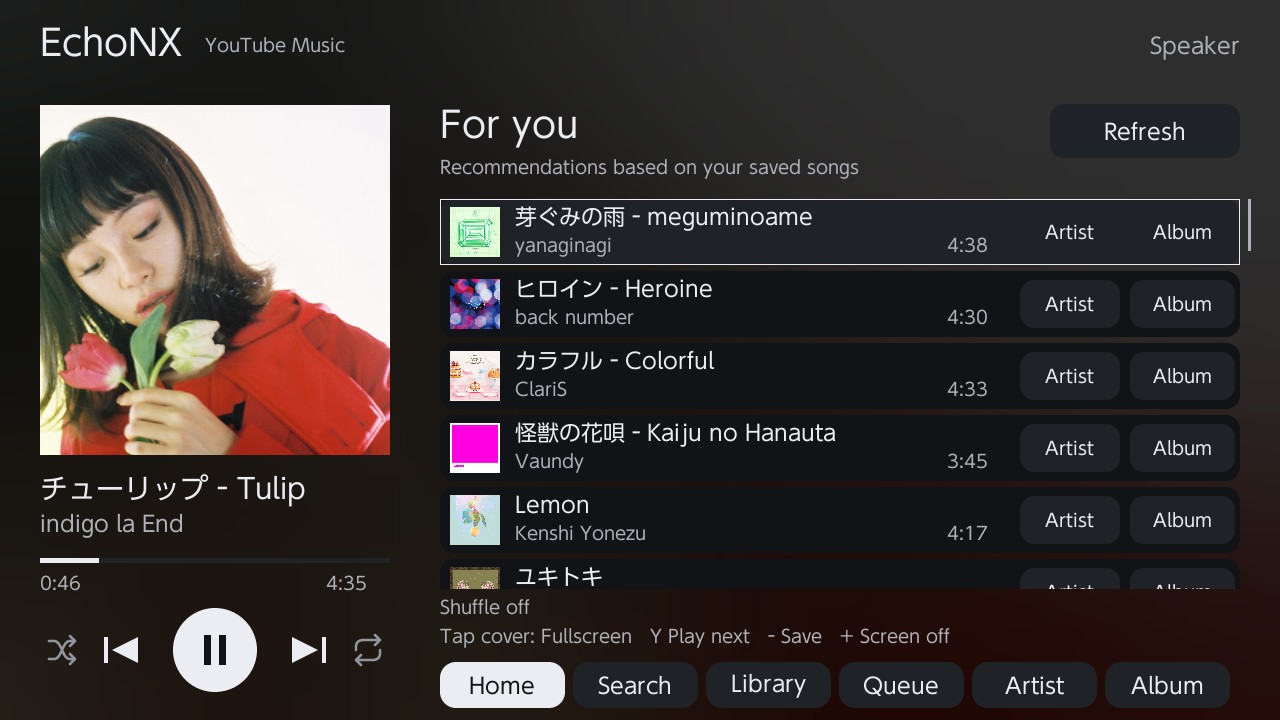
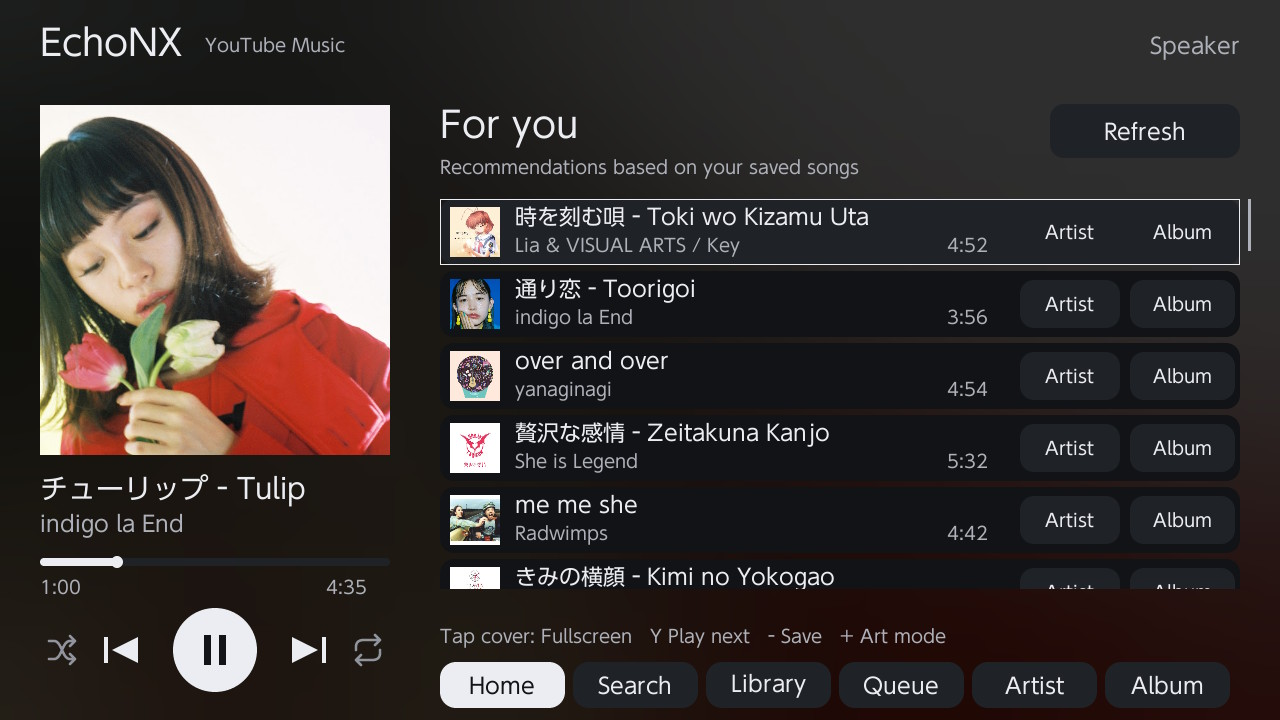
screenshot

diff --git a/README.md b/README.md
@@ -44,9 +44,9 @@ Your saved library lives at `sd:/switch/echonx/library.json`.
 
 ## Screenshots
 
-| Main screen | Fullscreen player |
-| --- | --- |
-| ![EchoNX main screen](docs/main.jpg) | ![EchoNX fullscreen player](docs/fullscreen.jpg) |
+| Main screen | Fullscreen player | Album art mode |
+| --- | --- | --- |
+| ![EchoNX main screen](docs/main.jpg) | ![EchoNX fullscreen player](docs/fullscreen.jpg) | ![EchoNX album art mode](docs/album%20art.jpg) |
 
 ## Controls
 
